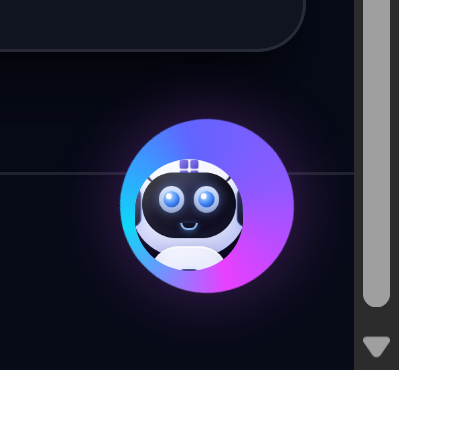
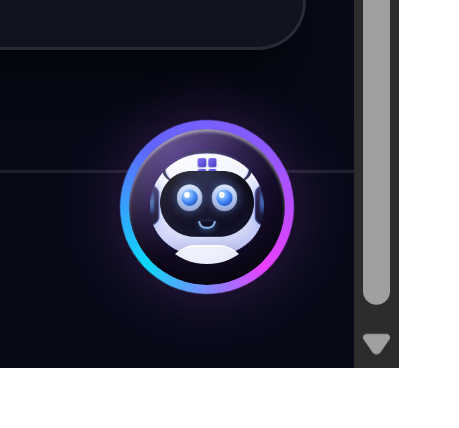
AI button: center robot inside the circle, remove native tooltip overlap
- Root cause: .ai-launcher > * selector (specificity 0,2,0) forced position:relative
  on the core, so the core was 36px instead of 52px and the robot sat off-center.
  Now .ai-launcher > .ai-launcher-core keeps position:absolute/inset:3px:
  core 52x52, robot 38x38 centered with equal 7px margins (offset dx=dy=0)
- Removed native title tooltip that popped a black bubble over the button on hover
  (aria-label kept for accessibility)
- Verified on prod: core 52x52, centered robot, no tooltip, 0 JS errors;
  updated docs/ai-button-premium-zoom.png

diff --git a/web/src/components/AssistantWidget.vue b/web/src/components/AssistantWidget.vue
@@ -252,7 +252,6 @@ onUnmounted(() => {
         class="ai-launcher relative flex items-center justify-center rounded-full text-white w-[58px] h-[58px] p-0"
         :class="{ 'ai-peek': peeking, 'ai-pressed': pressed, 'ai-hover': hovering }"
         :aria-label="assistantUi.open ? 'Свернуть AI-помощника' : 'Открыть AI-помощника'"
-        :title="assistantUi.open ? 'Свернуть AI-помощника' : 'AI-помощник — спросить'"
         @click="toggleOpen"
         @mouseenter="hovering = true"
         @mouseleave="hovering = false"
@@ -738,7 +737,7 @@ onUnmounted(() => {
   opacity: 0.85;
   animation: ai-glow-pulse 4.5s ease-in-out infinite;
 }
-.ai-launcher-core {
+.ai-launcher > .ai-launcher-core {
   position: absolute;
   inset: 3px;
   z-index: 2;
